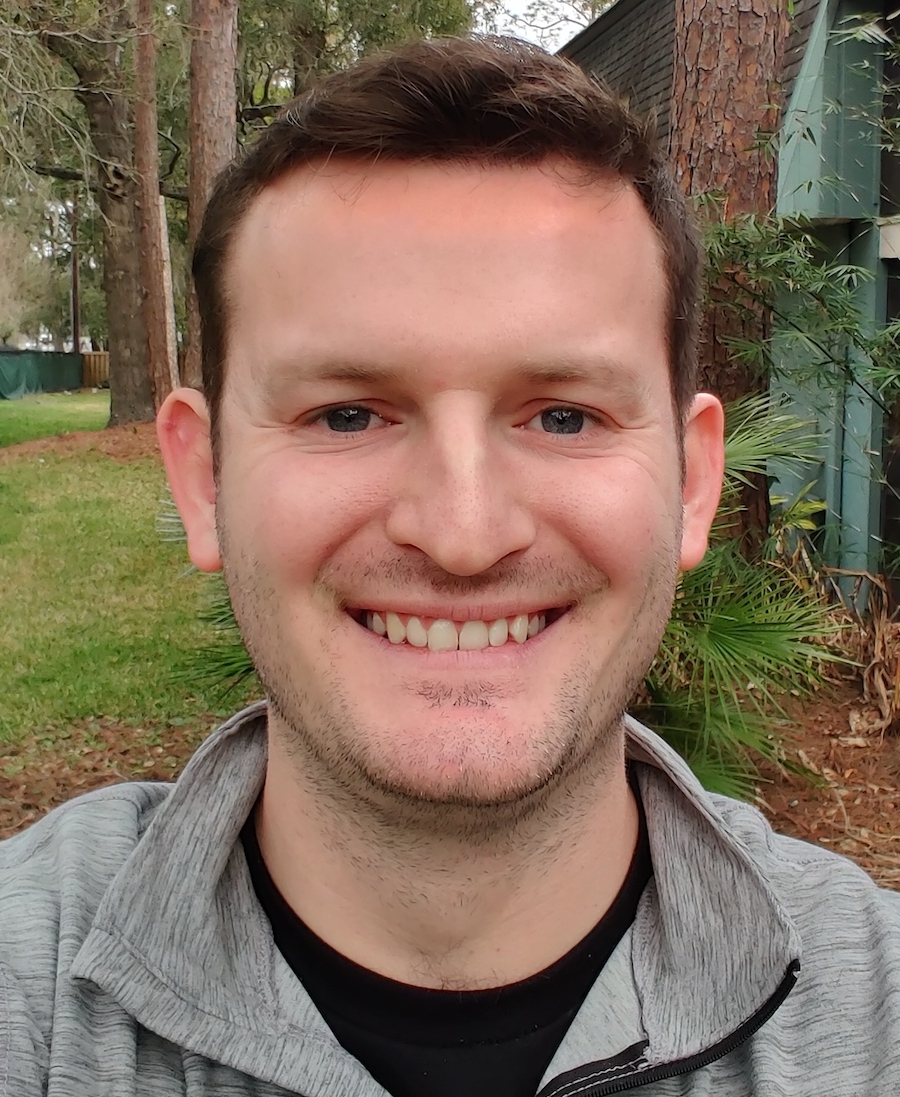
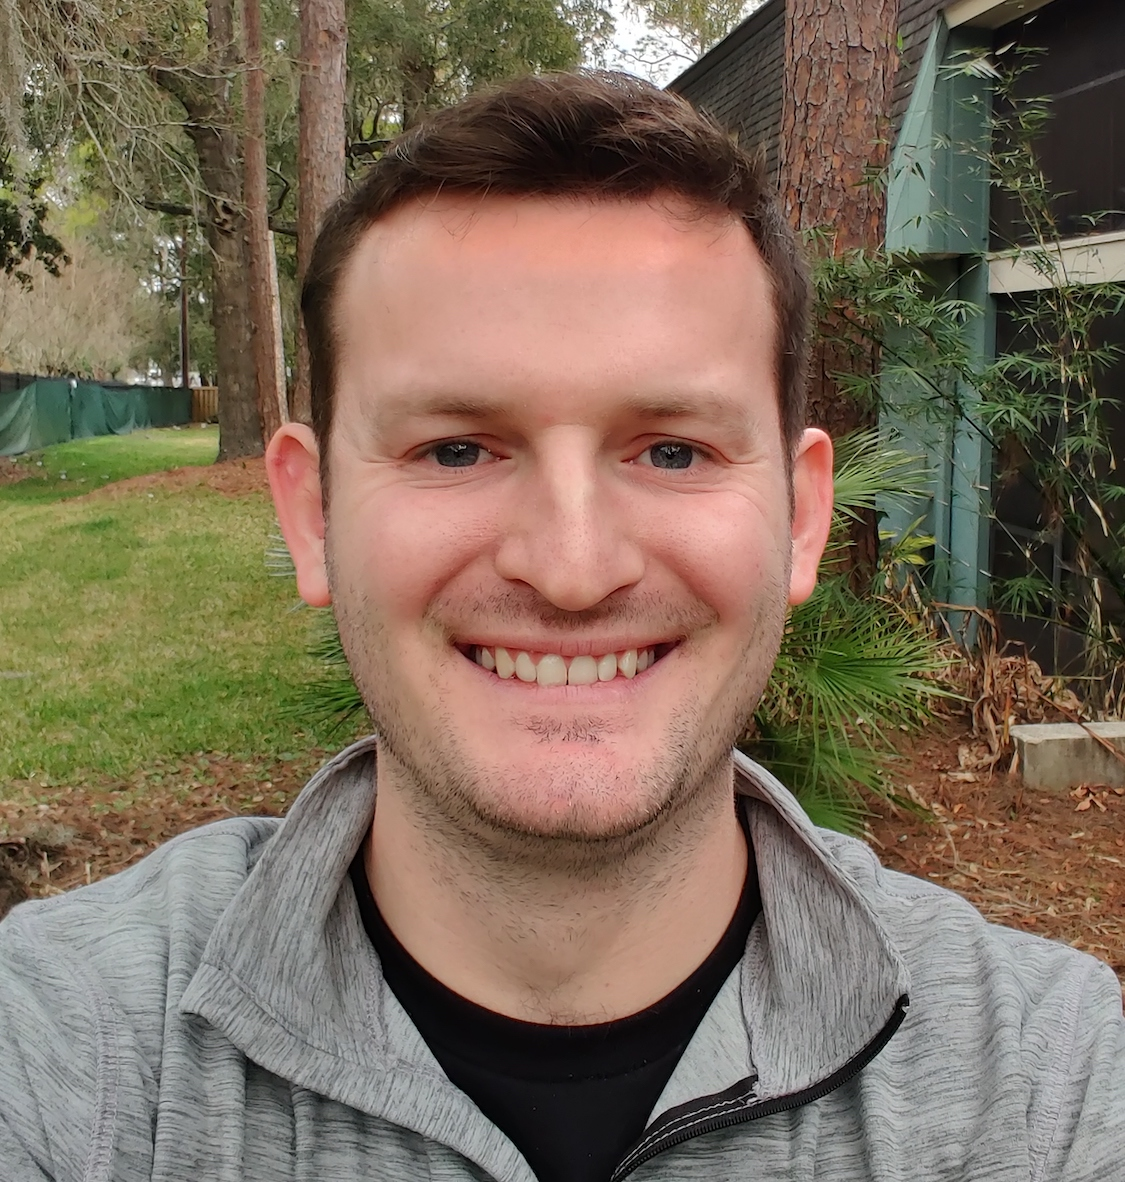
0

diff --git a/index.html b/index.html
@@ -86,7 +86,7 @@
 <div class="container">
   <div class="row">
     <div class="columnIm leftIm">
-      <img src="img/profile_pics/2022a.jpg">
+      <img src="img/profile_pics/2022c.jpg">
     </div>
     <div class="columnIm rightIm" >
       <h6 class="normal">Brevin Tilmon</h6> <br> 
